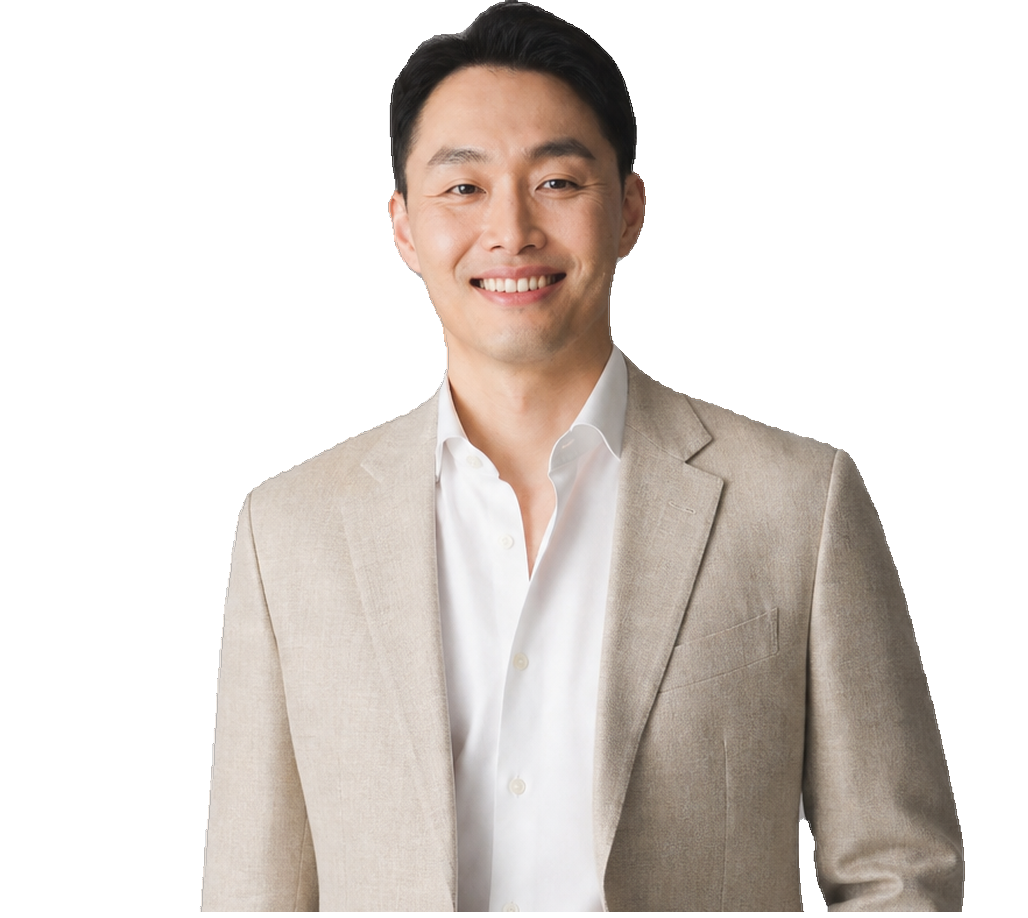
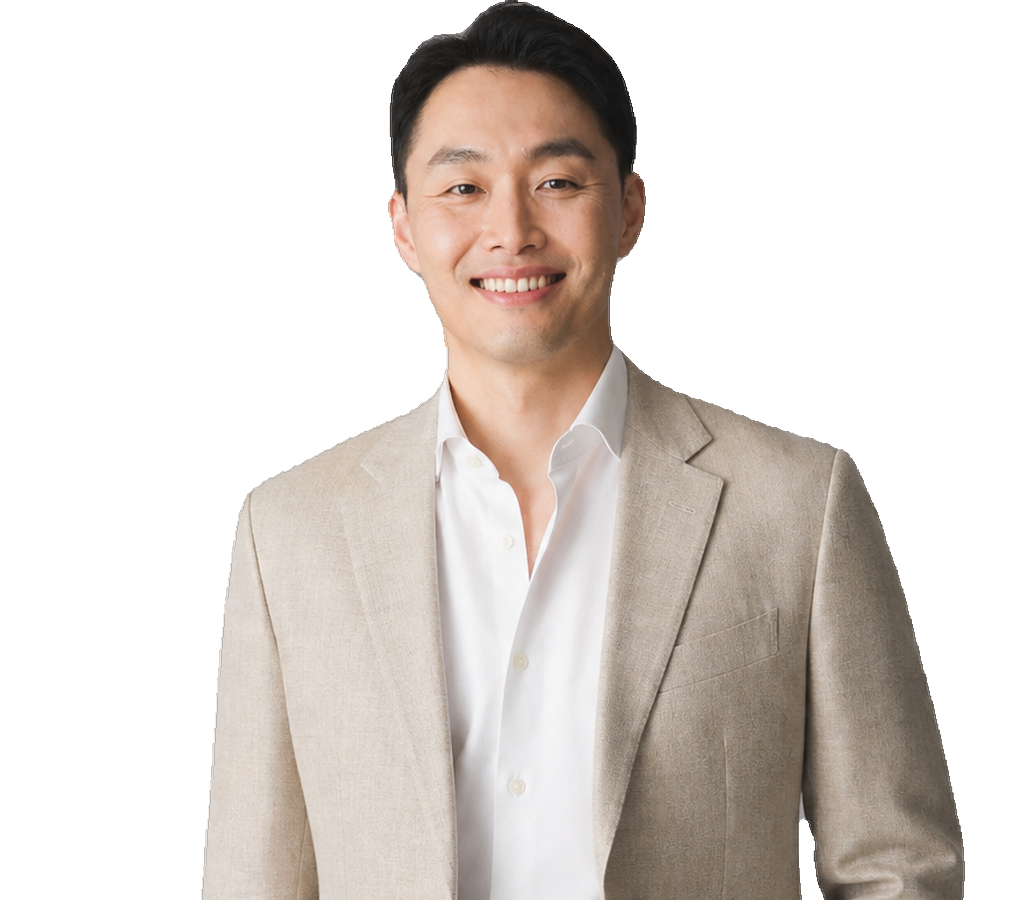
히어로 문구를 줄이고 대표 사진 여백과 캡션을 맞춥니다.

diff --git a/css/site.css b/css/site.css
@@ -275,7 +275,7 @@ html.is-menu body {
   gap: 0;
   align-items: end;
   min-height: 532px;
-  padding: 0;
+  padding: 0 0 40px;
 }
 .lead, .eyebrow {
   font-size: 28px;
@@ -314,6 +314,7 @@ h2 {
 .eyebrow { margin-bottom: 16px; }
 
 .shot { margin: 0; min-width: 0; }
+.hero .shot { position: relative; }
 .shot img {
   background: var(--wash);
   border-radius: var(--r-shot);
@@ -323,17 +324,17 @@ h2 {
 .hero .shot-pic {
   position: relative;
   width: 511px;
-  height: 456px;
+  aspect-ratio: 1028 / 900;
+  height: auto;
 }
 .hero .shot-card {
   position: absolute;
-  left: 32px;
-  right: 32px;
+  left: 6.26%;
+  right: 6.26%;
   top: 28%;
-  bottom: 8px;
+  bottom: 0;
   background: rgba(0, 0, 0, 0.15);
   border-radius: 24px;
-  transform: translateY(6px);
   z-index: 0;
 }
 .hero .shot-pic img {
@@ -344,14 +345,21 @@ h2 {
   background: transparent;
   border-radius: 0;
   object-fit: contain;
-  transform: translateX(-20px);
+  object-position: 50% 100%;
+  transform: translateX(-3.91%);
   z-index: 1;
 }
 .hero .shot figcaption {
+  position: absolute;
+  left: 0;
+  right: 0;
+  top: 100%;
   display: block;
   text-align: center;
-  font-size: 16px;
-  line-height: 20px;
+  margin-top: 16px;
+  font-size: 18px;
+  font-weight: 400;
+  line-height: 24px;
 }
 .shot.sm { width: 265px; flex: 0 0 265px; }
 .shot.sm img { width: 265px; height: 490px; }
@@ -1229,19 +1237,23 @@ input, select {
     align-items: center;
   }
   .hero .shot.lg {
-    width: min(511px, 100%);
-    margin: 0 auto;
+    width: min(511px, calc(100% + 24px));
+    margin: 0 -12px;
   }
   .hero .shot-pic {
     width: 100%;
     height: auto;
-    aspect-ratio: 511 / 456;
+    aspect-ratio: 1028 / 900;
   }
   .hero .shot-pic img {
     width: 100%;
     height: 100%;
   }
-  .hero .shot figcaption { width: 100%; text-align: center; }
+  .hero .shot figcaption {
+    position: static;
+    width: 100%;
+    text-align: center;
+  }
   .statbox {
     flex-direction: column;
     align-items: stretch;

diff --git a/index.html b/index.html
@@ -8,7 +8,7 @@
   <link rel="stylesheet" href="https://cdn.jsdelivr.net/gh/orioncactus/pretendard@v1.3.9/dist/web/static/pretendard.min.css">
   <link rel="icon" href="img/favicon.png" type="image/png">
   <link rel="apple-touch-icon" href="img/apple-touch.png">
-  <link rel="stylesheet" href="css/site.css?v=28">
+  <link rel="stylesheet" href="css/site.css?v=37">
 </head>
 <body>
   <header class="hd">
@@ -56,14 +56,14 @@
   <main id="top">
     <section class="hero wrap">
       <div class="hero-copy">
-        <p class="lead">세금도 간편하게 톡!</p>
-        <h1>잘 내고 잘 돌려받는<br>세무서비스, 판기세무회계</h1>
+        <p class="lead">잘 내고 잘 돌려받는</p>
+        <h1>판기세무회계</h1>
         <a class="btn solid" href="#consult">상담 신청하기</a>
       </div>
       <figure class="shot lg">
         <div class="shot-pic">
           <div class="shot-card" aria-hidden="true"></div>
-          <img class="shot-who" src="img/ceo.png?v=47" alt="김판기 대표 세무사">
+          <img class="shot-who" src="img/ceo.png?v=48" alt="김판기 대표 세무사">
         </div>
         <figcaption>김판기 대표 세무사</figcaption>
       </figure>
